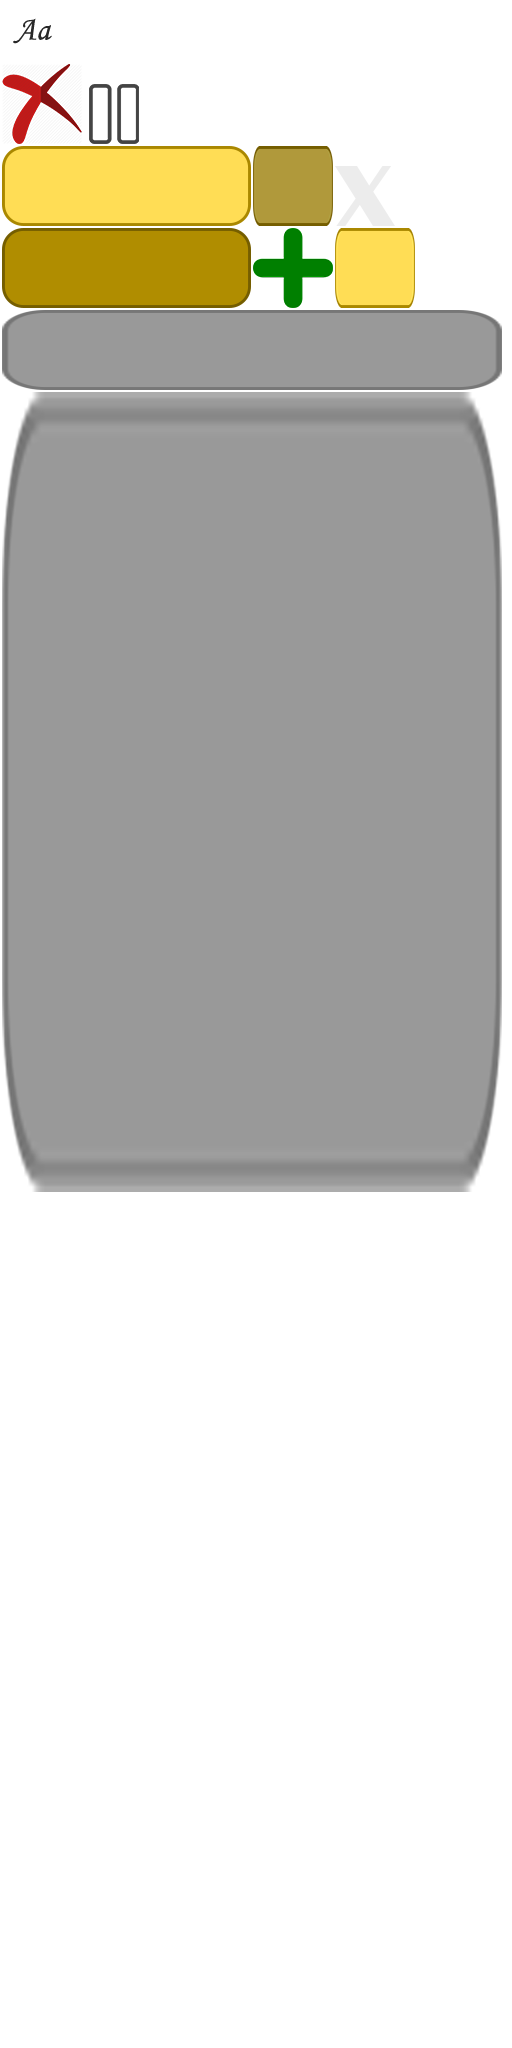
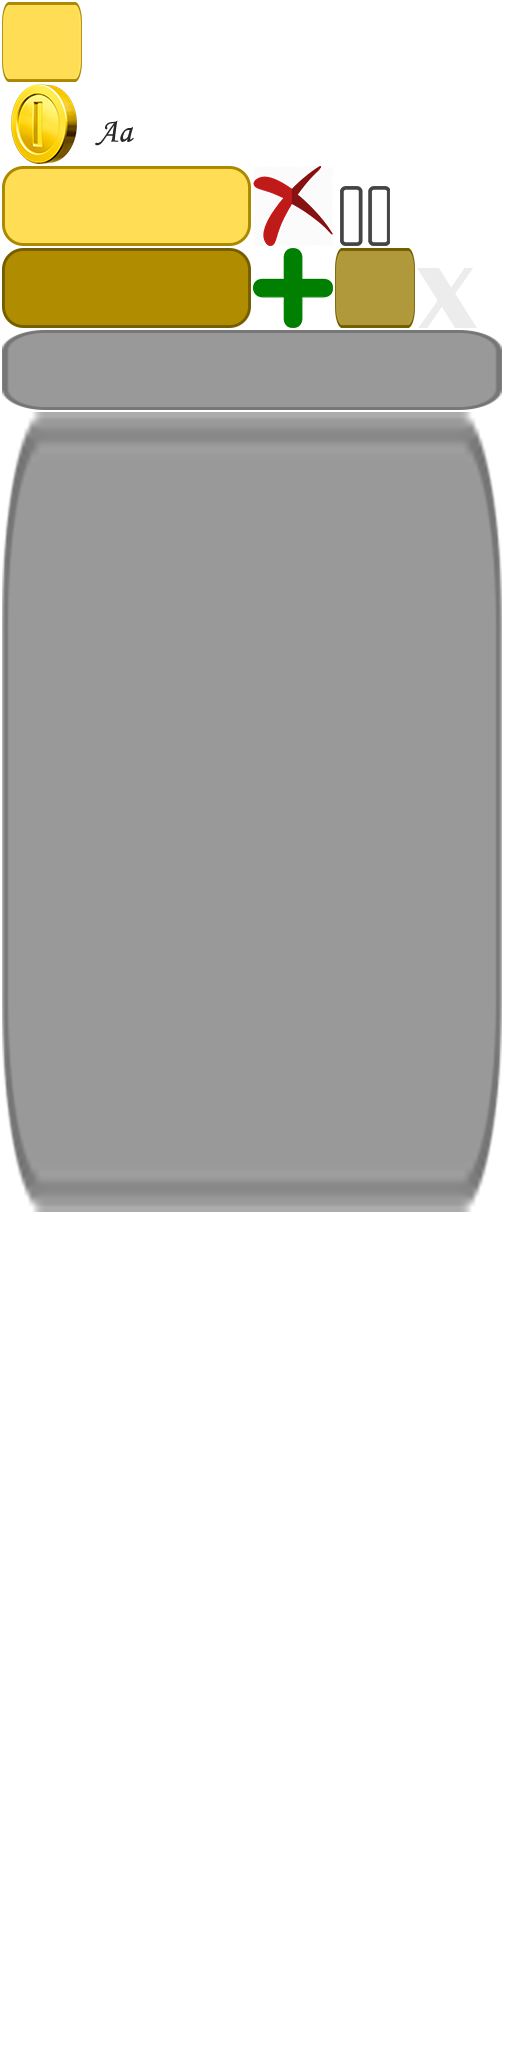
Added coins to the top-left corner

diff --git a/core/src/com/vb/ilt/ui/stages/HudStage.java b/core/src/com/vb/ilt/ui/stages/HudStage.java
@@ -4,7 +4,9 @@ import com.badlogic.gdx.assets.AssetManager;
 import com.badlogic.gdx.graphics.g2d.SpriteBatch;
 import com.badlogic.gdx.scenes.scene2d.Actor;
 import com.badlogic.gdx.scenes.scene2d.Stage;
+import com.badlogic.gdx.scenes.scene2d.ui.Image;
 import com.badlogic.gdx.scenes.scene2d.ui.ImageButton;
+import com.badlogic.gdx.scenes.scene2d.ui.Label;
 import com.badlogic.gdx.scenes.scene2d.ui.Skin;
 import com.badlogic.gdx.scenes.scene2d.ui.Table;
 import com.badlogic.gdx.scenes.scene2d.utils.ChangeListener;
@@ -12,6 +14,7 @@ import com.badlogic.gdx.utils.Logger;
 import com.badlogic.gdx.utils.viewport.Viewport;
 import com.vb.ilt.assets.AssetDescriptors;
 import com.vb.ilt.assets.ButtonStyleNames;
+import com.vb.ilt.assets.RegionNames;
 import com.vb.ilt.systems.active.HudSystem;
 import com.vb.ilt.systems.active.MovementSystem;
 import com.vb.ilt.systems.active.PlayerControlSystem;
@@ -73,10 +76,20 @@ public class HudStage extends Stage{
             }
         });
 
+        Table scoreTable = new Table();
+        Image image = new Image(assetManager.get(AssetDescriptors.SKIN).getDrawable(RegionNames.COIN));
+        Label score = new Label("2000", skin);
+        score.setFontScale(2f);
+
+        scoreTable.add(image);
+        scoreTable.add(score).padLeft(15f);
+        scoreTable.pack();
+
         buttonTable.add(dictButton);
         buttonTable.add(pauseButton).padLeft(60);
         buttonTable.pack();
 
+        mainTable.add(scoreTable).top().left().expandY().expandX();
         mainTable.add(buttonTable).top().right().expandY().expandX();
         mainTable.row();
         mainTable.add(this.dictTable).width(1000).height(900).top().right().expandX().expandY();
@@ -85,19 +98,6 @@ public class HudStage extends Stage{
 
         mainTable.pack();
         this.addActor(mainTable);
-    }
-
-
-    public Map<String, String> getAvailableAllWords(){
-        return dictTable.getAvailableAllWords();
-    }
-
-    public Map<String, String> getAvailableMyWords(){
-        return dictTable.getAvailableMyWords();
-    }
-
-    public void setAvailableMyWords(Map<String, String> words){
-        dictTable.setAvailableMyWords(words);
     }
 
     public void updateWords(){

diff --git a/core/src/com/vb/ilt/ui/stages/AuthorSpeechStage.java b/core/src/com/vb/ilt/ui/stages/AuthorSpeechStage.java
@@ -1,5 +1,6 @@
 package com.vb.ilt.ui.stages;
 
+import com.badlogic.gdx.assets.AssetManager;
 import com.badlogic.gdx.graphics.g2d.SpriteBatch;
 import com.badlogic.gdx.graphics.g2d.TextureRegion;
 import com.badlogic.gdx.scenes.scene2d.Actor;
@@ -13,7 +14,9 @@ import com.badlogic.gdx.scenes.scene2d.utils.ChangeListener;
 import com.badlogic.gdx.scenes.scene2d.utils.TextureRegionDrawable;
 import com.badlogic.gdx.utils.Logger;
 import com.badlogic.gdx.utils.viewport.Viewport;
+import com.vb.ilt.assets.AssetDescriptors;
 import com.vb.ilt.assets.ButtonStyleNames;
+import com.vb.ilt.assets.RegionNames;
 
 public class AuthorSpeechStage extends Stage {
 
@@ -26,10 +29,10 @@ public class AuthorSpeechStage extends Stage {
     private TextureRegion region;
 
 
-    public AuthorSpeechStage(Viewport viewport, SpriteBatch batch, Skin skin, TextureRegion region, ExitCallback exitCallback) {
+    public AuthorSpeechStage(Viewport viewport, SpriteBatch batch, AssetManager assetManager, ExitCallback exitCallback) {
         super(viewport, batch);
-        this.skin = skin;
-        this.region = region;
+        this.skin = assetManager.get(AssetDescriptors.SKIN);
+        this.region = assetManager.get(AssetDescriptors.PANELS).findRegion(RegionNames.PAUSE_PANEL);
         this.exitCallback = exitCallback;
         init();
     }

diff --git a/core/src/com/vb/ilt/systems/active/AuthorSpeechSystem.java b/core/src/com/vb/ilt/systems/active/AuthorSpeechSystem.java
@@ -10,8 +10,6 @@ import com.badlogic.gdx.graphics.g2d.SpriteBatch;
 import com.badlogic.gdx.utils.Logger;
 import com.badlogic.gdx.utils.Queue;
 import com.badlogic.gdx.utils.viewport.Viewport;
-import com.vb.ilt.assets.AssetDescriptors;
-import com.vb.ilt.assets.RegionNames;
 import com.vb.ilt.entity.components.dialog_model.Conversation;
 import com.vb.ilt.entity.components.npc.StoryComponent;
 import com.vb.ilt.ui.stages.AuthorSpeechStage;
@@ -35,8 +33,7 @@ public class AuthorSpeechSystem extends IteratingSystem implements ExitCallback{
         stage = new AuthorSpeechStage(
                 hudViewport,
                 batch,
-                assetManager.get(AssetDescriptors.SKIN),
-                assetManager.get(AssetDescriptors.PANELS).findRegion(RegionNames.AUTHOR_SPEECH),
+                assetManager,
                 this
         );
     }

diff --git a/core/src/com/vb/ilt/ui/stages/PauseStage.java b/core/src/com/vb/ilt/ui/stages/PauseStage.java
@@ -34,8 +34,8 @@ public class PauseStage extends Stage {
         super(viewport, batch);
         this.skin = assetManager.get(AssetDescriptors.SKIN);
         this.pausePanel = assetManager.get(AssetDescriptors.PANELS).findRegion(RegionNames.PAUSE_PANEL);
-        this.pauseCallback = pauseCallback;
         this.background = assetManager.get(AssetDescriptors.PANELS).findRegion(RegionNames.PAUSE_BACKGROUND);
+        this.pauseCallback = pauseCallback;
         init();
     }
 

diff --git a/core/src/com/vb/ilt/assets/RegionNames.java b/core/src/com/vb/ilt/assets/RegionNames.java
@@ -17,6 +17,7 @@ public final class RegionNames {
     public static final String AUTHOR_SPEECH = "author";
     public static final String PAUSE_PANEL = "pausePanel";
     public static final String PAUSE_BACKGROUND = "pauseBackground";
+    public static final String COIN = "coin";
 
     public static final String NPC_SHEPHERD = CharacterType.SHEPHERD.name().toLowerCase();
     public static final String NPC_BLACKSMITH = CharacterType.BLACKSMITH.name().toLowerCase();
